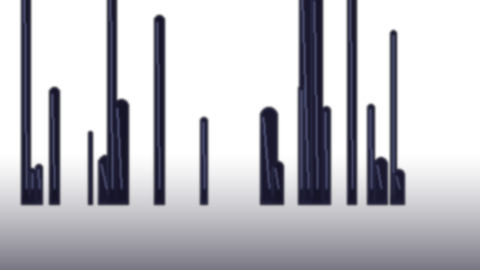
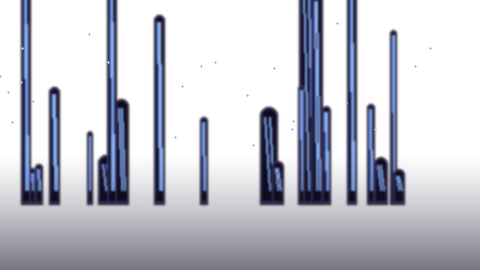
House of Mirrors look: retune to Mark's reference (lavender brick + electric-blue mirrors)
Closer to the target vibe (art_src/ref/house_of_mirrors_vibe.png), palette
sampled from it:
- Tileset: lavender-purple BRICK masonry (running-bond courses + lit brick tops,
  base ~(86,62,122) -> lit ~(140,116,178)) replacing the flat indigo marble;
  electric-blue (~(96,156,255)) sheen glints on exposed edges; glass platform,
  cracked-glass, magenta shard hazard kept for danger readability.
- Background: ornate arched FRAMED mirrors (lit lavender frames, dark glass) with
  electric-blue diagonal sheen streaks contained inside each frame (no longer
  rain-like), scattered blue diamond sparkles, and a faint reflective floor band,
  all on near-black.
Overrides still live inside each generator's build() so depths regenerates
byte-identical (verified: depths tileset + backgrounds untouched).

https://claude.ai/code/session_01Js6aFttoSRdZFK9HranBiv

diff --git a/tools/gen_backgrounds_mirrors.py b/tools/gen_backgrounds_mirrors.py
@@ -1,56 +1,93 @@
 """Generate the House of Mirrors (BIO-02) parallax layers + fog.
 
-Reuses gen_backgrounds.py's depth-graded haze/placement, but reskins the palette
-to violet/indigo and swaps the grave silhouettes for tall arched MIRROR FRAMES
-(reflective glass interior + a silver sheen), so the backdrop reads as a receding
-hall of mirrors rather than a necropolis.
-
-NOTE: overrides live INSIDE build() (not at import) so importing never disturbs
-gen_backgrounds' depths palette. gen_all runs the depths backgrounds first.
-Run via `npm run assets`. Outputs: backgrounds/mirror-{far,mid,near,fog}.png
+Reuses gen_backgrounds.py's depth-graded haze/placement, reskinned to Mark's
+reference (art_src/ref/house_of_mirrors_vibe.png): lavender-purple brick frames on
+near-black, with bright ELECTRIC-BLUE diagonal mirror-glass streaks, scattered blue
+diamond SPARKLES, and a faint reflective floor band. Overrides live INSIDE build()
+so importing never disturbs gen_backgrounds' depths palette. gen_all runs depths
+first. Outputs: backgrounds/mirror-{far,mid,near,fog}.png
 """
 from __future__ import annotations
+import math
 import gen_backgrounds as gb
 from common import save, rgba, lerp
 
 
 def _mirror_frame(d, cx, base, h, w, col):
-    """A tall arched mirror: frame, darker reflective glass, a silver sheen line."""
+    """Ornate arched mirror: lit lavender frame, dark glass, contained electric-blue streaks."""
     x0, x1 = int(cx - w / 2), int(cx + w / 2)
     top = int(base - h)
     body_top = top + max(3, w // 2)
-    d.rectangle([x0, body_top, x1, int(base + 10)], fill=rgba(col))            # frame body
-    d.pieslice([x0, top, x1, top + w], 180, 360, fill=rgba(col))                # arched head
-    glass = lerp(col, gb.BG_DEEP, 0.42)
+    frame = lerp(col, gb.STONE, 0.45)                                           # lift the frame so it reads
+    d.rectangle([x0, body_top, x1, int(base + 10)], fill=rgba(frame))           # frame body
+    d.pieslice([x0, top, x1, top + w], 180, 360, fill=rgba(frame))               # arched head
+    glass = lerp(gb.BG_DEEP, col, 0.20)                                          # dark reflective glass
     gx0, gx1 = x0 + 2, x1 - 2
     if gx1 > gx0:
-        d.rectangle([gx0, body_top, gx1, int(base + 6)], fill=rgba(glass))      # reflective interior
+        d.rectangle([gx0, body_top, gx1, int(base + 6)], fill=rgba(glass))
         d.pieslice([gx0, top + 2, gx1, top + w - 2], 180, 360, fill=rgba(glass))
-        d.line([(gx0 + 1, body_top + 2), (int(cx), int(base - 6))], fill=rgba(lerp(gb.STONE_HI, gb.GRACE, 0.5)))  # sheen
-    gb._lit(d, x0, body_top, base, col)
+        # diagonal sheen streaks CONTAINED within the glass (a framed mirror, not rain)
+        streak = rgba(gb.GRACE)
+        core = rgba(lerp(gb.GRACE, (255, 255, 255), 0.55))
+        bw = gx1 - gx0
+        for off in (0.22, 0.55):
+            xt = gx0 + bw * off
+            xb = min(gx1, xt + bw * 0.32)
+            d.line([(xt, body_top + 2), (xb, base - 4)], fill=streak)
+            d.line([(min(gx1, xt + 1), body_top + 2), (min(gx1, xb + 1), base - 4)], fill=core)
+    gb._lit(d, x0, body_top, base, frame)
+
+
+def _sparkles(img, seed, n, ytop, ybot):
+    """Small bright-blue diamond glints scattered through the hall."""
+    d = gb.ImageDraw.Draw(img)
+    bright = rgba(lerp(gb.GRACE, (255, 255, 255), 0.35))
+    soft = rgba(gb.GRACE, 150)
+    for i in range(n):
+        x = int(gb.hsh(i, seed) * gb.W)
+        y = int(ytop + gb.hsh(i, seed + 1) * (ybot - ytop))
+        d.point((x, y - 1), fill=soft); d.point((x, y + 1), fill=soft)
+        d.point((x - 1, y), fill=soft); d.point((x + 1, y), fill=soft)
+        d.point((x, y), fill=bright)
+
+
+def _reflective_floor(img):
+    """A faint glossy reflection band along the very bottom (the mirror floor)."""
+    d = gb.ImageDraw.Draw(img)
+    floor = gb.H - 7
+    for x in range(gb.W):
+        a = int(40 + 30 * (0.5 + 0.5 * math.sin(x * 0.20)))
+        d.line([(x, floor), (x, gb.H)], fill=rgba(lerp(gb.BG_DEEP, gb.GRACE, 0.18), a))
 
 
 def build() -> None:
-    # Mirror palette + shape swap, applied here (not at import) so depths is safe.
-    gb.BG_DEEP = (12, 10, 22)
-    gb.BG_MID = (24, 20, 42)
-    gb.STONE = (44, 38, 70)
-    gb.STONE_LO = (26, 22, 44)
-    gb.STONE_HI = (108, 100, 150)
-    gb.MOLTEN = (196, 72, 184)
-    gb.MOLTEN_HI = (255, 142, 236)
-    gb.GRACE = (176, 208, 255)
+    # Mirror palette (sampled from the reference) + shape swap, applied here.
+    gb.BG_DEEP = (8, 6, 20)
+    gb.BG_MID = (20, 16, 40)
+    gb.STONE = (86, 62, 122)
+    gb.STONE_LO = (50, 38, 82)
+    gb.STONE_HI = (140, 116, 178)
+    gb.MOLTEN = (212, 70, 182)
+    gb.MOLTEN_HI = (255, 150, 236)
+    gb.GRACE = (96, 156, 255)
     gb.BLOOM = (255, 255, 255)
     gb.tombstone = _mirror_frame
-    gb.obelisk = lambda d, cx, base, h, w, col: _mirror_frame(d, cx, base, h, max(4, w - 2), col)
+    gb.obelisk = lambda d, cx, base, h, w, col: _mirror_frame(d, cx, base, h, max(5, w - 2), col)
     gb.vault = _mirror_frame
     gb.crossgrave = _mirror_frame
 
-    save(gb.far_layer(), "backgrounds", "mirror-far.png")
-    save(gb.mid_layer(), "backgrounds", "mirror-mid.png")
-    save(gb.near_layer(), "backgrounds", "mirror-near.png")
+    far = gb.far_layer()
+    mid = gb.mid_layer()
+    near = gb.near_layer()
+    _sparkles(far, seed=61, n=22, ytop=20, ybot=int(gb.H * 0.55))
+    _sparkles(mid, seed=71, n=20, ytop=30, ybot=int(gb.H * 0.7))
+    _sparkles(near, seed=73, n=12, ytop=40, ybot=int(gb.H * 0.85))
+    _reflective_floor(near)
+    save(far, "backgrounds", "mirror-far.png")
+    save(mid, "backgrounds", "mirror-mid.png")
+    save(near, "backgrounds", "mirror-near.png")
     save(gb.fog_layer(), "backgrounds", "mirror-fog.png")
-    print("  mirror backgrounds: far/mid/near + fog (House of Mirrors)")
+    print("  mirror backgrounds: far/mid/near + fog (electric-blue hall of mirrors)")
 
 
 if __name__ == "__main__":

diff --git a/tools/gen_tileset_mirrors.py b/tools/gen_tileset_mirrors.py
@@ -1,59 +1,80 @@
 """Generate the 'mirrors' AUTOTILE tileset (House of Mirrors / BIO-02).
 
-Same 21-slot Vis contract as depths (gen_tileset.py) — we reuse all of its
-edge-aware geometry and just reskin the palette to violet/indigo marble with a
-silver mirror sheen, a glass platform, a cracked-mirror CRACK slot and a magenta
-"shard" hazard (the MOLTEN-equivalent). Informed by a PixelLab sidescroller
-tileset reference (obsidian + violet marble + silver glass); the raw CDN image
-isn't fetchable from this sandbox, so the look is matched by design.
+Same 21-slot Vis contract as depths (gen_tileset.py) — reuses its edge-aware
+geometry and reskins to match Mark's reference (art_src/ref/house_of_mirrors_vibe.png):
+LAVENDER-PURPLE BRICK masonry (base ~(86,62,122) lit to ~(138,114,176)) on
+near-black, with an ELECTRIC-BLUE mirror sheen on lit edges, a glass platform,
+cracked-glass, and a magenta shard hazard (danger reads against the blue).
 
-NOTE: the palette overrides live INSIDE build() (not at import) so importing this
-module never disturbs gen_tileset's depths palette. gen_all runs depths first.
-Run via `npm run assets`. Strip order must match src/data/assetManifest.ts Vis.
+The walls get a real running-bond BRICK fill (overriding gen_tileset.stone_fill)
+to match the reference's masonry. Palette/overrides live INSIDE build() so depths
+regenerates byte-identical. Strip order must match assetManifest.ts Vis.
 """
 from __future__ import annotations
+from PIL import ImageDraw
 import gen_tileset as g
 from common import new, save, rgba, lerp
 
 T = g.T
 
 
+def _brick_fill(img, seed):
+    """Running-bond lavender brick: base + staggered mortar joints + lit brick tops."""
+    px = img.load()
+    for y in range(T):
+        for x in range(T):
+            v = g.hsh(x, y, seed)
+            px[x, y] = rgba(lerp(g.STONE_LO, g.STONE, 0.45 + v * 0.55))
+    d = ImageDraw.Draw(img)
+    mortar = rgba(lerp(g.STONE_LO, g.BG_DEEP, 0.5))
+    lit = rgba(lerp(g.STONE, g.STONE_HI, 0.55))
+    bands = [(0, 4), (6, 9), (11, 15)]            # three courses per 16px tile
+    joints = {0: (8,), 1: (0, 12), 2: (4,)}        # staggered -> running bond
+    for my in (5, 10):                             # horizontal mortar + lit brick-top below
+        d.line([(0, my), (T - 1, my)], fill=mortar)
+        d.line([(0, my + 1), (T - 1, my + 1)], fill=lit)
+    for bi, (y0, y1) in enumerate(bands):
+        for jx in joints[bi]:
+            d.line([(jx, y0), (jx, y1)], fill=mortar)
+
+
 def _sheen(d, seed, length_bias=1.0):
-    """Replace 'moss' on exposed tops with sparse silver glints (light on glass)."""
+    """Electric-blue glints on exposed tops (light catching the glass/mirror trim)."""
     for x in range(1, T - 1):
         if g.hsh(x, seed, 23) > 0.82:
-            d.point((x, 2), fill=rgba(lerp(g.STONE_HI, g.GRACE, 0.6)))
+            d.point((x, 2), fill=rgba(lerp(g.STONE_HI, g.GRACE, 0.7)))
 
 
 def build() -> None:
-    # Reskin gen_tileset's module globals to the mirror palette (its functions read
-    # these by name at call time). Applied here, not at import, so depths is safe.
-    g.BG_DEEP = (12, 10, 22)
-    g.STONE_LO = (26, 22, 44)
-    g.STONE = (44, 38, 70)
-    g.STONE_HI = (108, 100, 150)
-    g.MOLTEN = (196, 72, 184)      # magenta shard-glow (hazard)
-    g.MOLTEN_HI = (255, 142, 236)
-    g.GRACE = (176, 208, 255)      # cold silver-cyan sheen
+    # Mirror palette (sampled from the reference). Applied here, not at import, so
+    # gen_tileset's depths palette is untouched (gen_all runs depths first).
+    g.BG_DEEP = (8, 6, 20)
+    g.STONE_LO = (50, 38, 82)
+    g.STONE = (86, 62, 122)        # lavender-purple brick
+    g.STONE_HI = (140, 116, 178)   # lit lavender highlight
+    g.MOLTEN = (212, 70, 182)      # magenta shard-glow (hazard; reads as danger)
+    g.MOLTEN_HI = (255, 150, 236)
+    g.GRACE = (96, 156, 255)       # electric-blue mirror sheen
     g.BLOOM = (255, 255, 255)
-    g.LEAF = (70, 64, 110)
+    g.LEAF = (84, 70, 130)
     g.LEAF_HI = (150, 150, 200)
-    g.CALCITE = (150, 156, 184)
-    g.CALCITE_HI = (228, 232, 250)
-    g.DAMP = (18, 14, 30)
-    g.add_moss = _sheen            # wall()/platform()/interior_variant() pick this up
+    g.CALCITE = (150, 156, 188)
+    g.CALCITE_HI = (220, 232, 255)
+    g.DAMP = (24, 16, 40)
+    g.stone_fill = _brick_fill     # wall()/interior_variant() pick these up by name
+    g.add_moss = _sheen
 
     tiles = [g.wall(m) for m in range(16)]
     tiles.append(g.interior_variant(1))   # 16
     tiles.append(g.interior_variant(2))   # 17
-    tiles.append(g.cracked())             # 18  (reads as cracked mirror)
+    tiles.append(g.cracked())             # 18  (cracked mirror)
     tiles.append(g.platform())            # 19  (glass plate)
     tiles.append(g.molten())              # 20  (magenta shard hazard)
     sheet = new(T * len(tiles), T)
     for i, im in enumerate(tiles):
         sheet.alpha_composite(im, (i * T, 0))
     save(sheet, "tilesets", "mirrors.png")
-    print(f"  mirrors autotile: 16 wall-masks + 2 interior + cracked-glass + glass platform + shard hazard ({len(tiles)} tiles)")
+    print(f"  mirrors autotile: lavender brick + electric-blue sheen, 21 tiles")
 
 
 if __name__ == "__main__":

diff --git a/CLAUDE.md b/CLAUDE.md
@@ -132,10 +132,14 @@ Full design bible: `docs/Repentance_Overworld_Map.pdf` notes summarized in `docs
   grace-tinted). • **Biome theming system** — `RoomData.biome` + `Biomes` map in `assetManifest`
   (tileset + parallax per biome); `GameScene`/`EditorScene` pick the tileset, `ParallaxBackground`/
   `Decorations` theme by biome. Depths unchanged (default). • **Mirror art** — `mirrors` tileset
-  (`tools/gen_tileset_mirrors.py`, depths-reskin into the same 21-slot Vis contract; PixelLab
-  `create_sidescroller_tileset` id `74b2aad9` used as material reference — raw CDN not fetchable
-  here, matched by design) + mirror parallax (`gen_backgrounds_mirrors.py`, arched mirror-frames,
-  cold glass light). • **Preview sandbox** `mirror-preview` (`__gotoRoom`), grants Grace Burst, a
+  (`tools/gen_tileset_mirrors.py`, depths-reskin into the same 21-slot Vis contract) + mirror
+  parallax (`gen_backgrounds_mirrors.py`). **Look tuned to Mark's reference image**
+  (`art_src/ref/house_of_mirrors_vibe.png`): **lavender-purple BRICK masonry** + **electric-blue
+  mirror sheen** + blue diamond sparkles on near-black; bg = ornate arched framed mirrors with
+  contained blue glass streaks + a faint reflective floor band. (Palette sampled from the ref;
+  PixelLab `create_sidescroller_tileset` id `74b2aad9` was an earlier material reference — its raw
+  CDN isn't fetchable here anyway.) Overrides live inside each generator's `build()` so depths
+  regenerates byte-identical. • **Preview sandbox** `mirror-preview` (`__gotoRoom`), grants Grace Burst, a
   high ledge only reachable by air-dash. **Next:** real House-of-Mirrors room graph (bigger/vertical,
   Grace-Burst-gated) → Mirror Double + roster → gimmicks (reflective floors, shattered mirrors,
   gravity arches…) → mini-boss. Build each against the concept sheet + `docs/LEVEL_DESIGN.md`.
